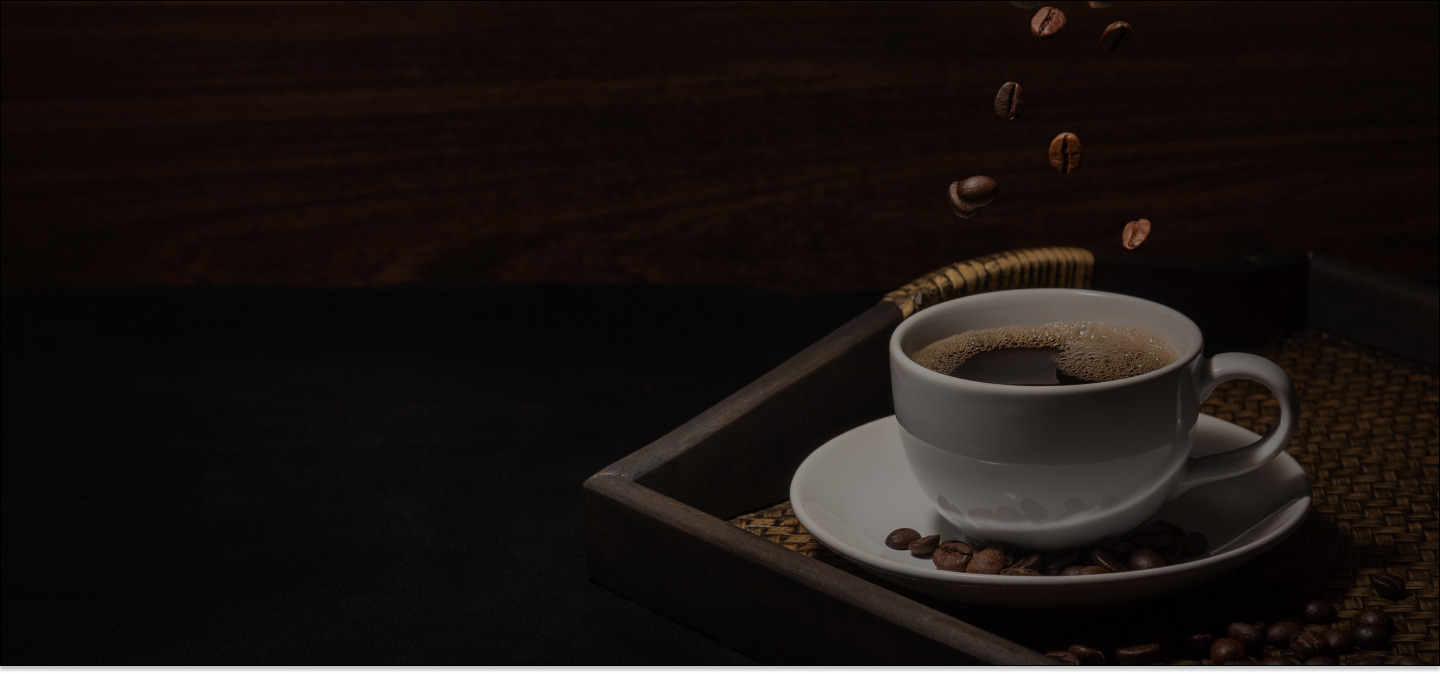
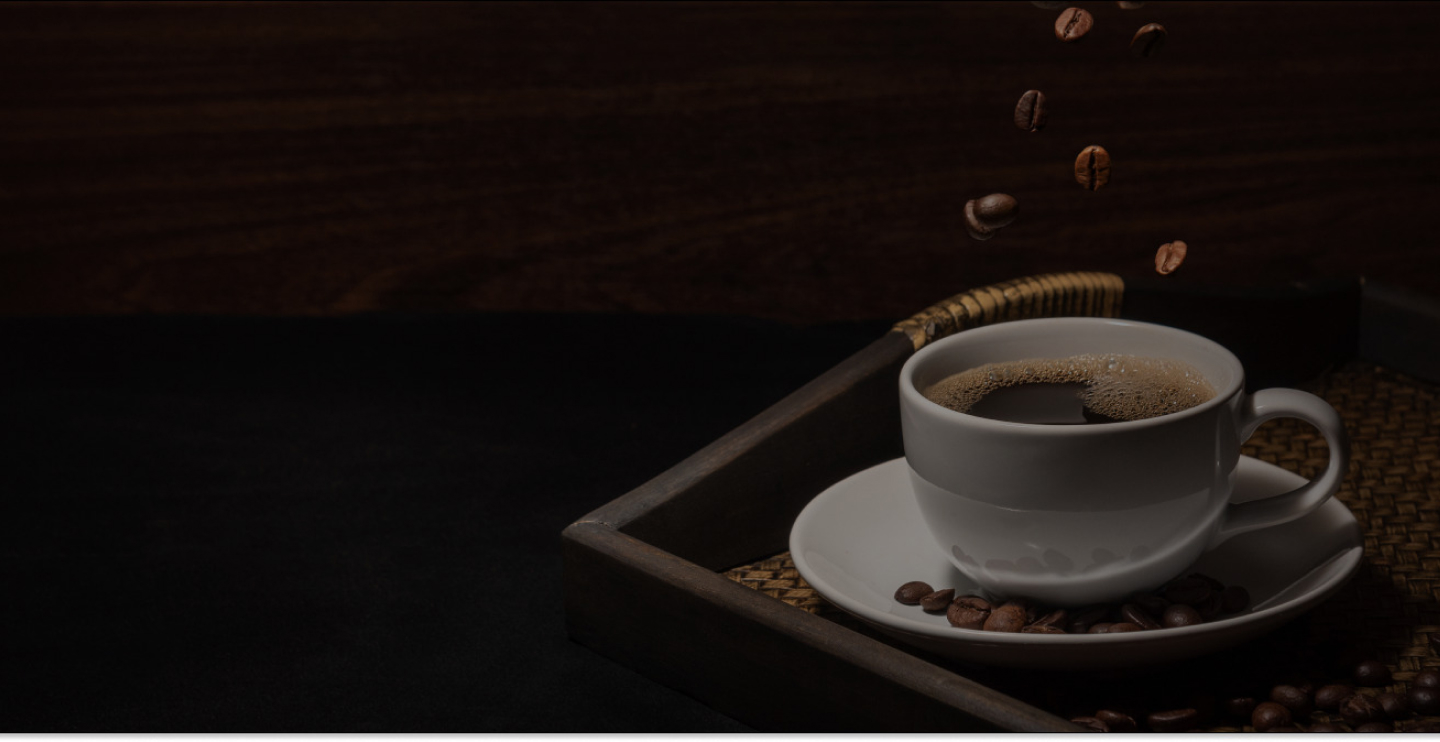
Fixed spacing between navbar and about

diff --git a/src/App.css b/src/App.css
@@ -77,7 +77,7 @@ a:hover{
 @media screen and (min-width: 768px) {
   
   .navBar{
-    position: relative;
+    position: fixed;
     flex-direction: row;
     flex-wrap: nowrap;
     background-color: #20100D;
@@ -165,6 +165,11 @@ html {
 /*******************
 02. BANNER
 *******************/
+
+ul.indicators{
+   margin:0;
+}
+
 .react-slideshow-container .default-nav:last-of-type {
    margin-left: -1rem;
    margin-right: -0.5rem;
@@ -174,11 +179,12 @@ html {
   width: 100%;
   position: relative;
   margin: auto;
+  background: #f2e6d6;
 }
 
 .containerBanner img {
-  width: 90%;
-  margin: auto;
+  width: 100%;
+  margin: 0;
 }
 
 /*******************

diff --git a/src/slider.js b/src/slider.js
@@ -11,7 +11,7 @@ const CallbackExample = () => {
 
   const style = {
     textAlign: "center",
-    margin: "5rem 0rem 0rem 0rem ",
+    margin: "4.3rem 0rem 0rem 0rem ",
     width: "100%",
   };
 
